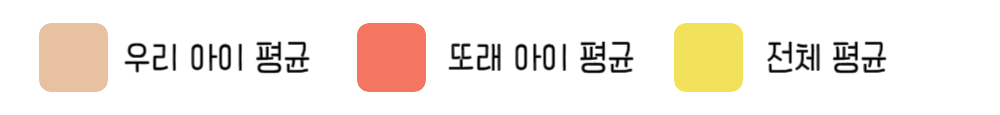
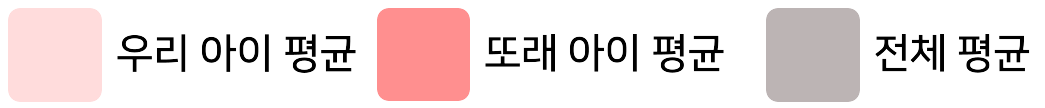
:art: Feat: 레포트 분석 디자인 변경

diff --git a/frontend/toby/src/pages/Report.tsx b/frontend/toby/src/pages/Report.tsx
@@ -132,7 +132,6 @@ const ContentExpressButton = styled.img`
 
 const ContentExpressButtonContiner = styled.div`
   flex: 0 0 10%;
-  border: 2px solid black;
   overflow: hidden;
   object-fit: contain;
   align-items: left;
@@ -148,9 +147,9 @@ const ContentExpressButtonContiner = styled.div`
 const ContentExpress = styled.div`
   flex: 0 0 90%;
   box-sizing: border-box; // 요소의 크기 계산에 경계선 포함
-  border: 14px solid #e4f0d5;
+  border: 14px solid #FFDCDC;
   background-color: white;
-  border-radius: 50px;
+  border-radius: 5%;
   height: 90%;
   width: 100%;
   display: flex;
@@ -171,9 +170,9 @@ const ContentElseContainer = styled.div`
 const ContentElse = styled.div`
   flex: 0 0 90%;
   box-sizing: border-box; // 요소의 크기 계산에 경계선 포함
-  border: 14px solid #ccd2f0;
+  border: 14px solid #FFDCDC;
   background-color: white;
-  border-radius: 7%;
+  border-radius: 5%;
   height: 100%;
   width: 100%;
   object-fit: contain;
@@ -184,7 +183,6 @@ const ContentElse = styled.div`
 
 const ContentGraphContainer = styled.div`
   flex: 0 0 10%;
-  border: 2px solid black;
   overflow: hidden;
   object-fit: contain;
   align-items: left;
@@ -199,7 +197,6 @@ const ContentGraphContainer = styled.div`
 const ContentGraph = styled.div`
   height: 100%;
   width: auto;
-  border: 2px solid green;
   display: flex;
   flex-direction: column;
   flex: 0 0 60%;
@@ -217,7 +214,6 @@ const ContentGraphExplain = styled.div`
   width: 100%;
   height: 100%;
   flex: 0 0 20%;
-  border: 2px solid pink;
   object-fit: contain;
   overflow: hidden;
   display: flex;
@@ -229,7 +225,6 @@ const ContentExplain = styled.div`
   width: 100%;
   height: 100%;
   flex: 0 0 40%;
-  border: 5px solid yellow;
   display: flex;
   align-items: center;
   justify-content: center;
@@ -241,11 +236,12 @@ const ContentExplain = styled.div`
 const GraphIndex = styled.img`
   display: flex;
   position: absolute;
-  width: 100%;
+  width: 70%;
   height: auto;
 `;
 
 const ExplainImage = styled.img`
+  padding: 1%;
   width: 100%;
   height: 100%;
   object-fit: contain;
@@ -266,10 +262,7 @@ const AudioBtn = styled.button<{ isPlaying: boolean }>`
   z-index: 1000;
   width: 3vw;
   height: 3vw;
-  background-image: url(${(props) =>
-    props.isPlaying
-      ? "/Image/button/no-sound.png"
-      : "/Image/button/sound.png"});
+  background-image: url(${(props) => props.isPlaying ? "/Image/button/no-sound.png" : "/Image/button/sound.png"});
   background-size: 100% 100%;
   background-color: transparent;
   border: none;

diff --git a/frontend/toby/src/components/report/ReportGraphContent.tsx b/frontend/toby/src/components/report/ReportGraphContent.tsx
@@ -1,7 +1,10 @@
 import React, { useState, useEffect } from "react";
 import { ResponsiveBar } from "@nivo/bar";
 import { getCorrectAnswer } from "../../apis/analysisApi";
+import { getUserStorage } from "../../apis/userStorageApi";
 import styled from "styled-components";
+const userStorage = getUserStorage();
+const accessToken = userStorage.accessToken;
 
 // 더미 데이터 정의
 const initialData = [
@@ -26,6 +29,25 @@ const Graph = styled.div`
 
 const MyResponsiveBar = () => {
   const [data, setData] = useState(initialData);
+  const [fontSize, setFontSize] = useState(18); // 초기 폰트 크기 설정
+
+  // 뷰포트 크기에 따라 폰트 크기 변경
+  useEffect(() => {
+    const handleResize = () => {
+      const width = window.innerWidth;
+      // 뷰포트 너비가 768px 미만이면 폰트 크기를 20으로 설정
+      if (width < 768) {
+        setFontSize(10);
+      } else {
+        setFontSize(18); // 기본 폰트 크기
+      }
+    };
+
+    window.addEventListener("resize", handleResize);
+
+    // 컴포넌트 언마운트 시 이벤트 리스너 제거
+    return () => window.removeEventListener("resize", handleResize);
+  }, []);
 
   useEffect(() => {
     const fetchData = async () => {
@@ -63,12 +85,12 @@ const MyResponsiveBar = () => {
         padding={0.1}
         groupMode="grouped"
         layout="horizontal"
-        colors={{ scheme: "nivo" }}
+        colors={['#FFDCDC', '#FF8F8F', '#BCB4B4']}
         borderColor={{ from: "color", modifiers: [["darker", 1.8]] }}
         axisTop={null}
         axisRight={null}
         axisBottom={{
-          tickSize: 5,
+          tickSize: 10,
           tickPadding: 2,
           tickRotation: 0,
           legend: "평균",
@@ -114,7 +136,7 @@ const MyResponsiveBar = () => {
           axis: {
             ticks: {
               text: {
-                fontSize: 30, // 축 틱 레이블의 글자 크기 조정
+                fontSize: fontSize, // 축 틱 레이블의 글자 크기 조정
               },
             },
             legend: {
@@ -130,7 +152,7 @@ const MyResponsiveBar = () => {
           },
           labels: {
             text: {
-              fontSize: 25, // 막대 내부 레이블의 글자 크기 조정
+              fontSize: fontSize-3, // 막대 내부 레이블의 글자 크기 조정
             },
           },
         }}

diff --git a/frontend/toby/src/components/report/ReportDrawings.tsx b/frontend/toby/src/components/report/ReportDrawings.tsx
@@ -19,7 +19,7 @@ const ListContainer = styled.div`
     width: 10px;
   }
   &::-webkit-scrollbar-thumb {
-    background-color: #afd485;
+    background-color: #fda7a7;
     border-radius: 5px;
   }
 `;
@@ -28,9 +28,10 @@ const DrawingItem = styled.div`
   display: flex;
   align-items: center;
   justify-content: center;
-  width: 90%;
+  width: 100%;
   height: auto;
-  border: 4px solid #afd485;
+  /* margin: 5px; */
+  border-bottom: 3px solid #FFDCDC;
 `;
 
 const ImageContainer = styled.div`
@@ -42,12 +43,15 @@ const ImageContainer = styled.div`
   flex: 0 0 60%;
   object-fit: contain;
   overflow: hidden;
+  
 `;
 
 const Image = styled.img`
   object-fit: contain;
-  height: 100%;
-  width: 100%;
+  height: 80%;
+  width: 80%;
+  margin: 5%;
+  border: 3px solid #fda7a7;
 `;
 
 const InfoContainer = styled.div`
@@ -62,30 +66,27 @@ const InfoContainer = styled.div`
 const Answer = styled.div`
   display: flex;
   align-items: center;
-  justify-content: center;
-  flex: 0 0 50%;
+  margin-left: 10px;
   width: 100%;
   height: auto;
-  font-size: 3rem;
-  border: 2px solid #afd485;
+  font-size: 3vw;
 `;
 
 const Score = styled.div`
   display: flex;
   align-items: center;
-  justify-content: center;
+  margin-left: 10px;
   flex: 0 0 25%;
-  font-size: 2rem;
-  border: 2px solid #afd485;
+  font-size: 2vw;
+
 `;
 
 const CreateTime = styled.div`
   display: flex;
   align-items: center;
-  justify-content: center;
+  margin-left: 10px;
   flex: 0 0 25%;
-  font-size: 2rem;
-  border: 2px solid #afd485;
+  font-size: 1.5vw;
 `;
 
 const translateAnswer = (answer) => {
